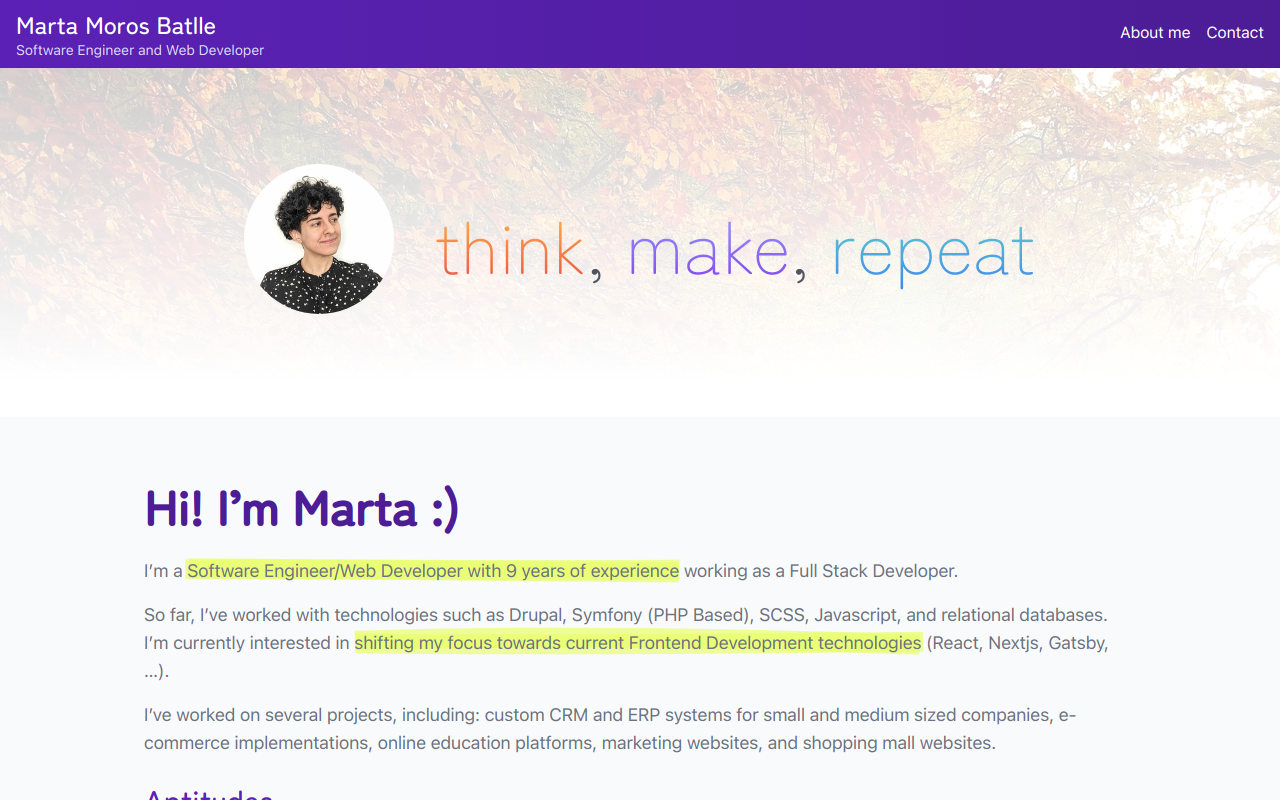
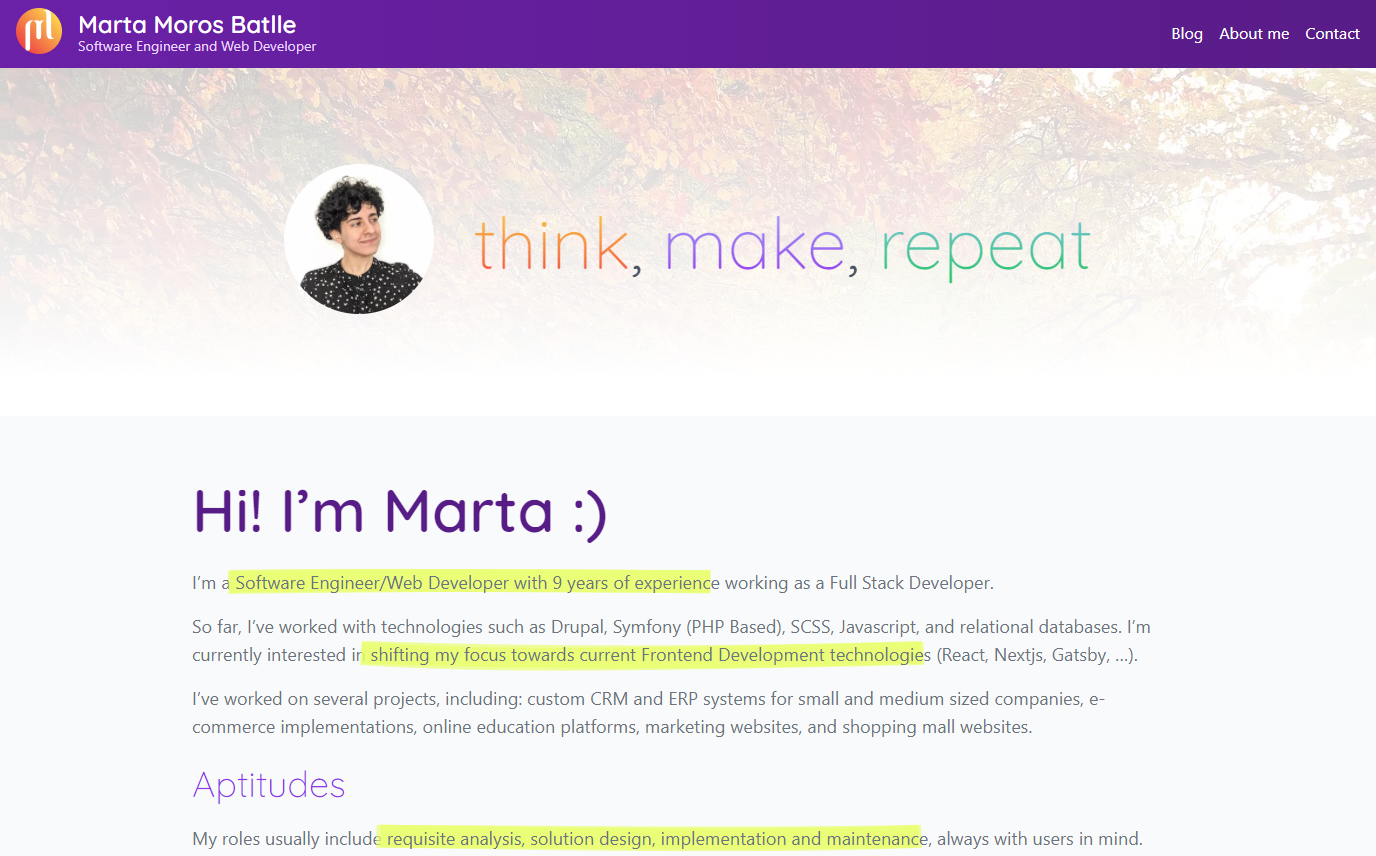
Style adjustments and font replacement

diff --git a/styles/globals.css b/styles/globals.css
@@ -4,13 +4,13 @@
 
 @layer base {
   h1 {
-    @apply text-5xl mt-6 mb-7 text-purple-900 font-light font-title;
+    @apply text-5xl lg:text-6xl mt-6 mb-7 text-purple-800 font-light font-title;
   }
   h2 {
-    @apply text-3xl mt-6 mb-5 text-purple-800 font-medium font-title;
+    @apply text-3xl lg:text-4xl mt-6 mb-5 text-purple-600 font-light font-title;
   }
   h3 {
-    @apply text-2xl mt-4 mb-3 text-purple-700 font-medium font-title;
+    @apply text-2xl lg:text-3xl mt-4 mb-3 text-purple-600 font-light font-title;
   }
   p {
     @apply mb-4;

diff --git a/components/structure/Navigation.tsx b/components/structure/Navigation.tsx
@@ -24,7 +24,7 @@ const Navigation: FunctionComponent = () => {
               </a>
             </Link>
             <div className="flex flex-col">
-              <div className="my-0 leading-none text-2xl text-white font-medium font-title">
+              <div className="my-0 leading-none text-2xl text-white font-semibold font-title">
                 {myName}
               </div>
               <div className="text-purple-200 text-sm">

diff --git a/pages/_document.tsx b/pages/_document.tsx
@@ -24,7 +24,7 @@ class MyDocument extends Document {
             crossOrigin="anonymous"
           />
           <link
-            href="https://fonts.googleapis.com/css2?family=Zen+Maru+Gothic:wght@300;500&display=swap"
+            href="https://fonts.googleapis.com/css2?family=Quicksand:wght@300;600&display=swap"
             rel="stylesheet"
           />
           {/** Favicon */}

diff --git a/components/RepoInfo.tsx b/components/RepoInfo.tsx
@@ -13,7 +13,7 @@ const RepoInfo: FunctionComponent<Props> = ({ repo }: Props) => {
       <div className="mb-3">
         <a
           href={repo.html_url}
-          className="no-underline font-title"
+          className="no-underline font-title font-semibold"
           target="_blank"
           rel="noreferrer"
         >

diff --git a/tailwind.config.js b/tailwind.config.js
@@ -3,7 +3,7 @@ module.exports = {
   theme: {
     extend: {
       fontFamily: {
-        title: ['"Zen Maru Gothic"'],
+        title: ['"Quicksand"'],
       },
     },
   },
